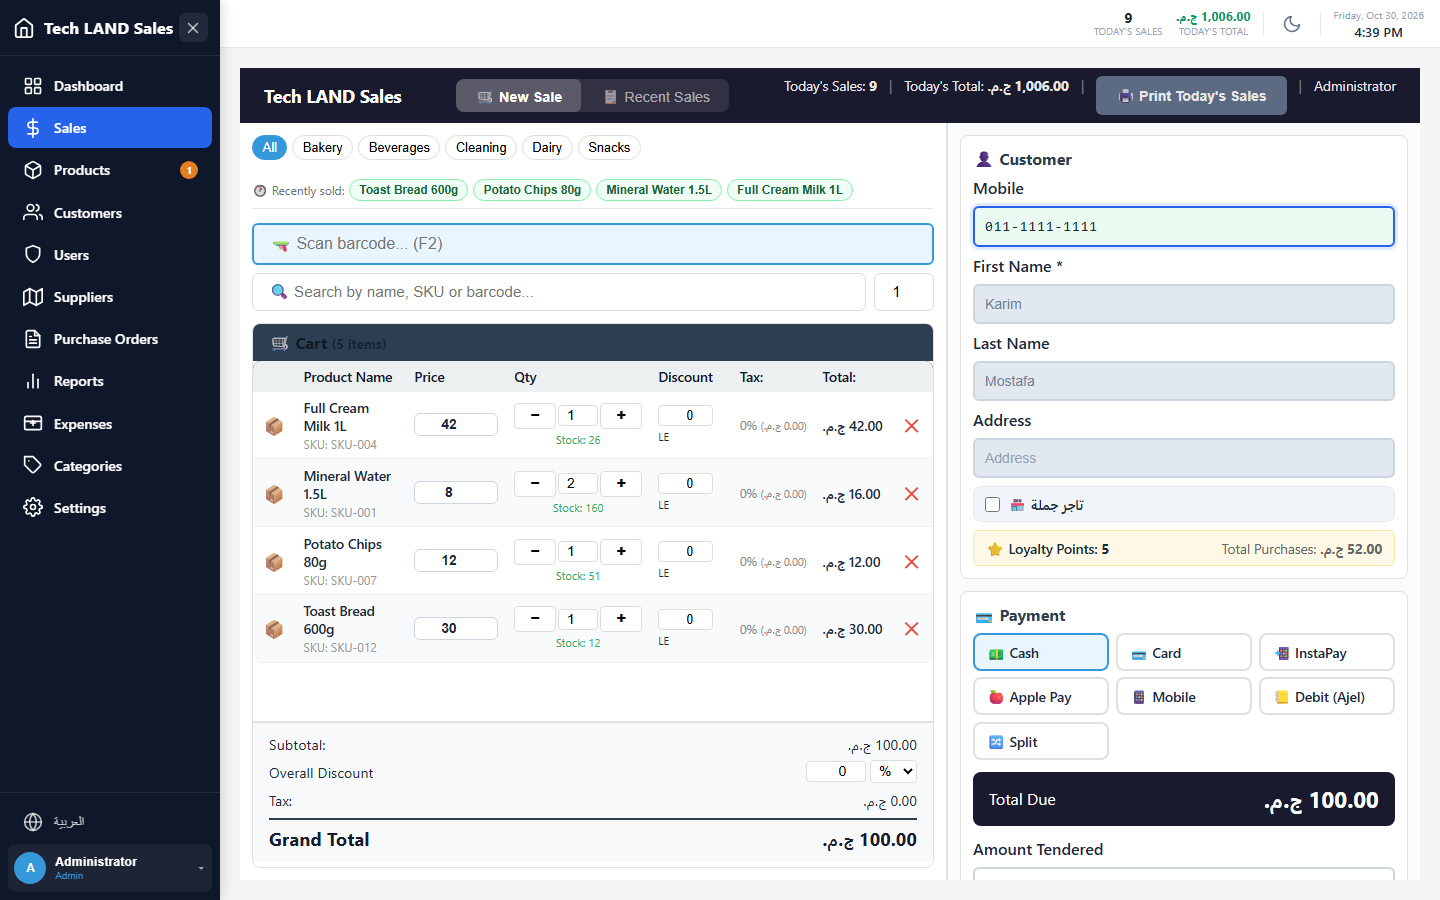
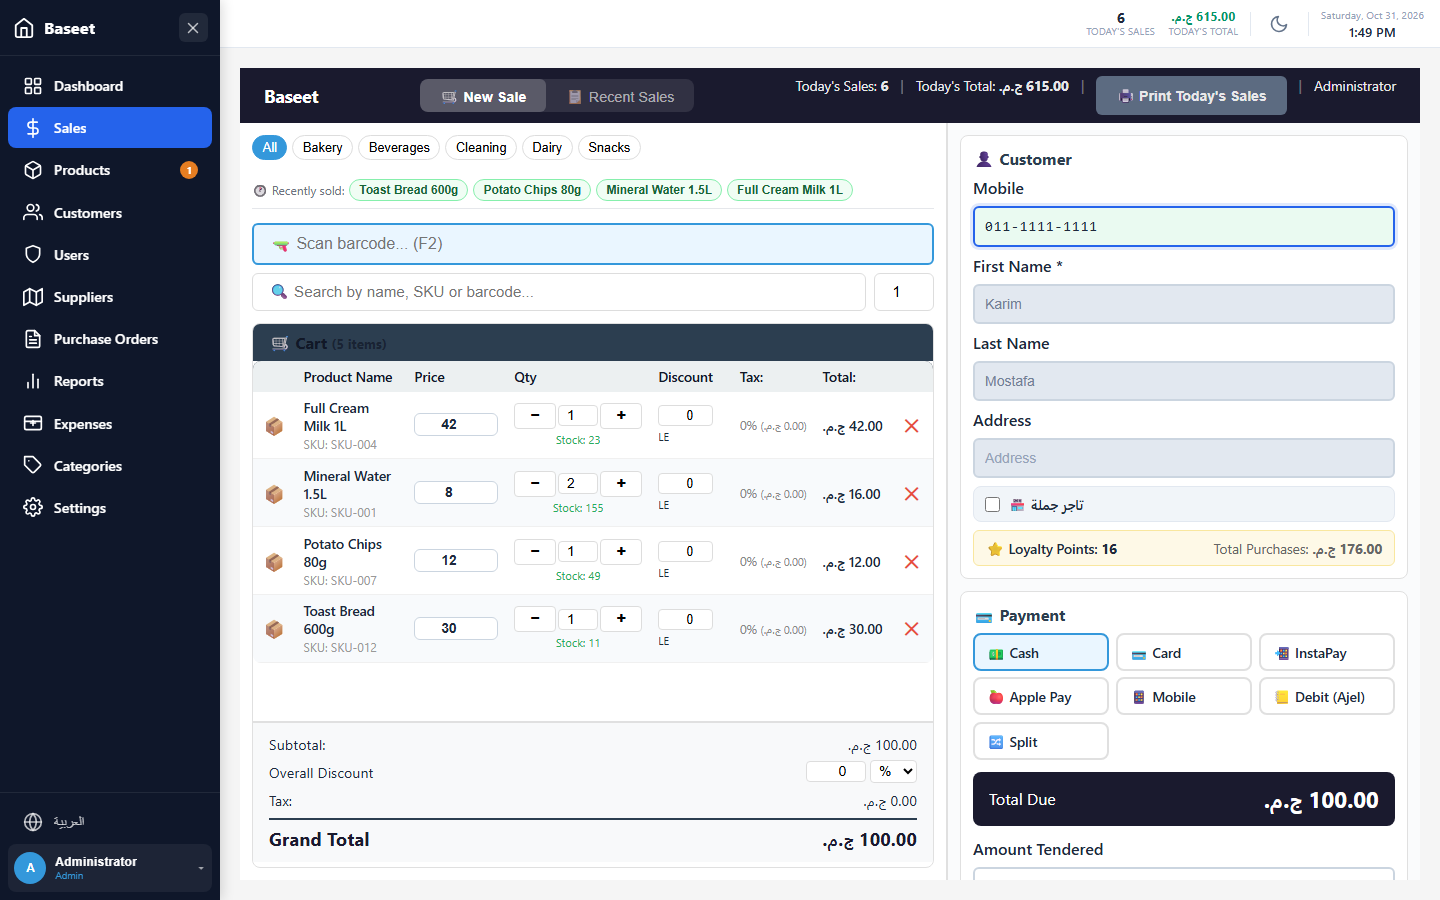
Retake screenshots with the Baseet name

diff --git a/README.md b/README.md
@@ -8,7 +8,7 @@ It's a commercial product (now under [AlcedoTech](https://alcedotech.io)), so th
 
 <!-- TODO(Mohamed): optional, add a 1-2 minute demo video link here -->
 
-Screenshots use invented demo data. The app still shows its earlier name, Tech LAND Sales.
+Screenshots use invented demo data.
 
 ---
 
